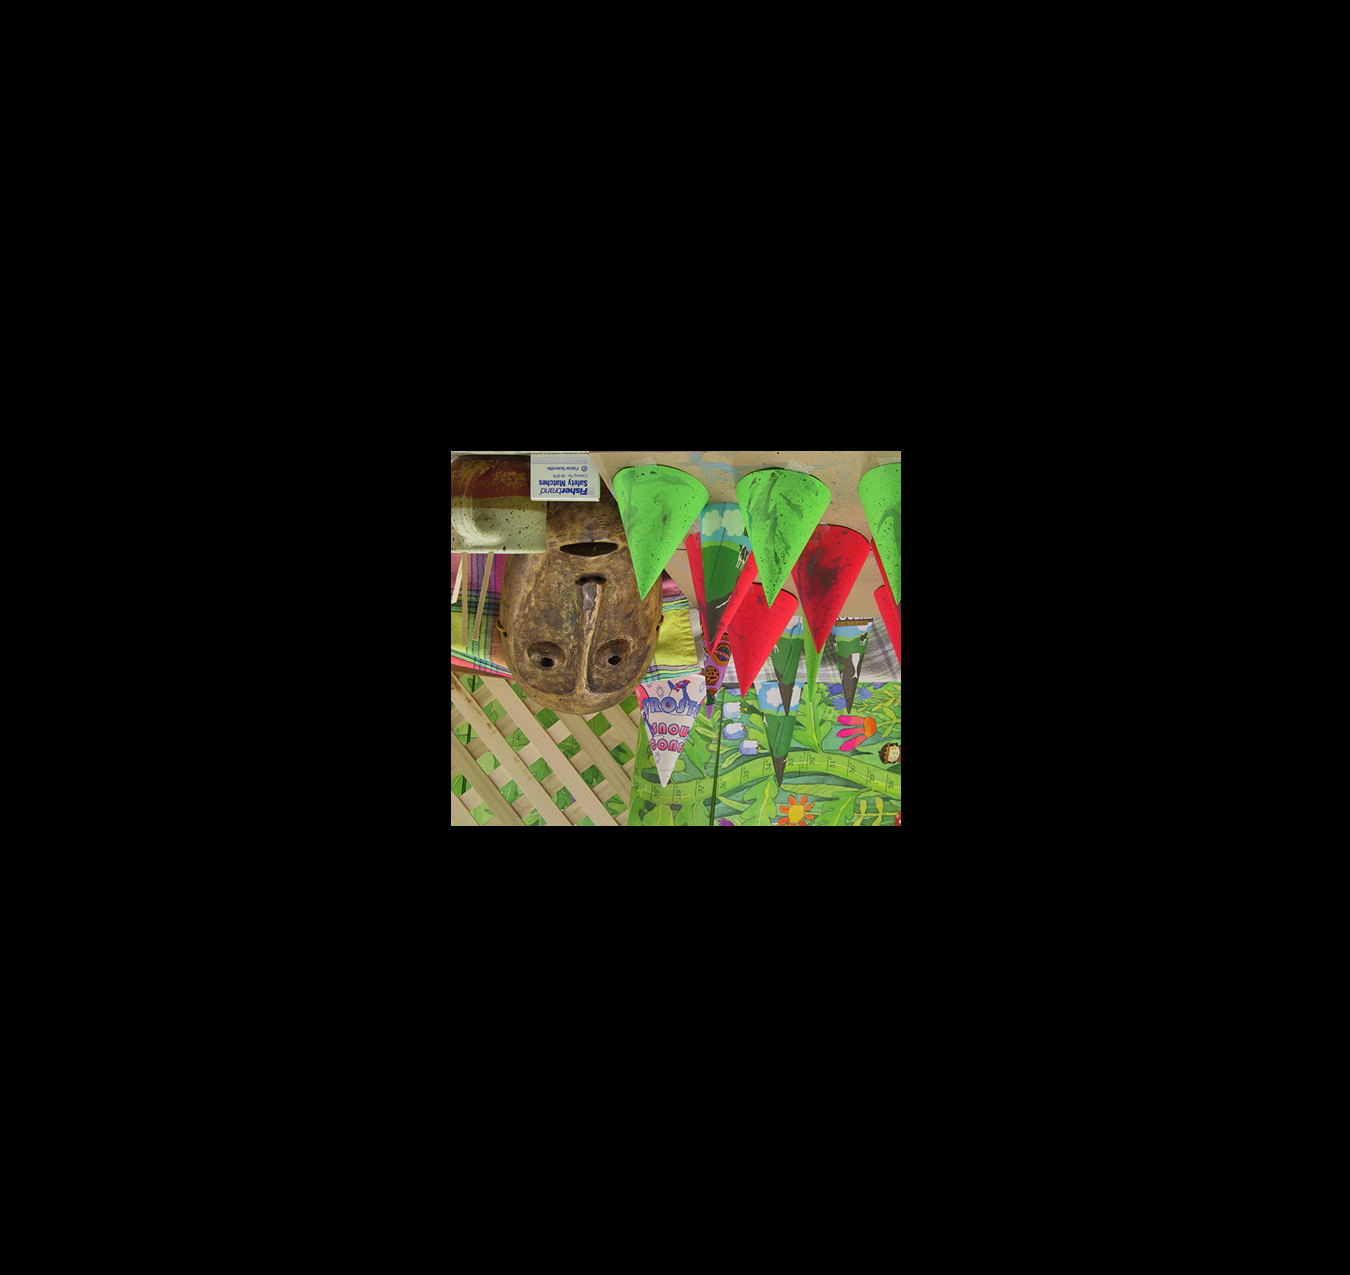
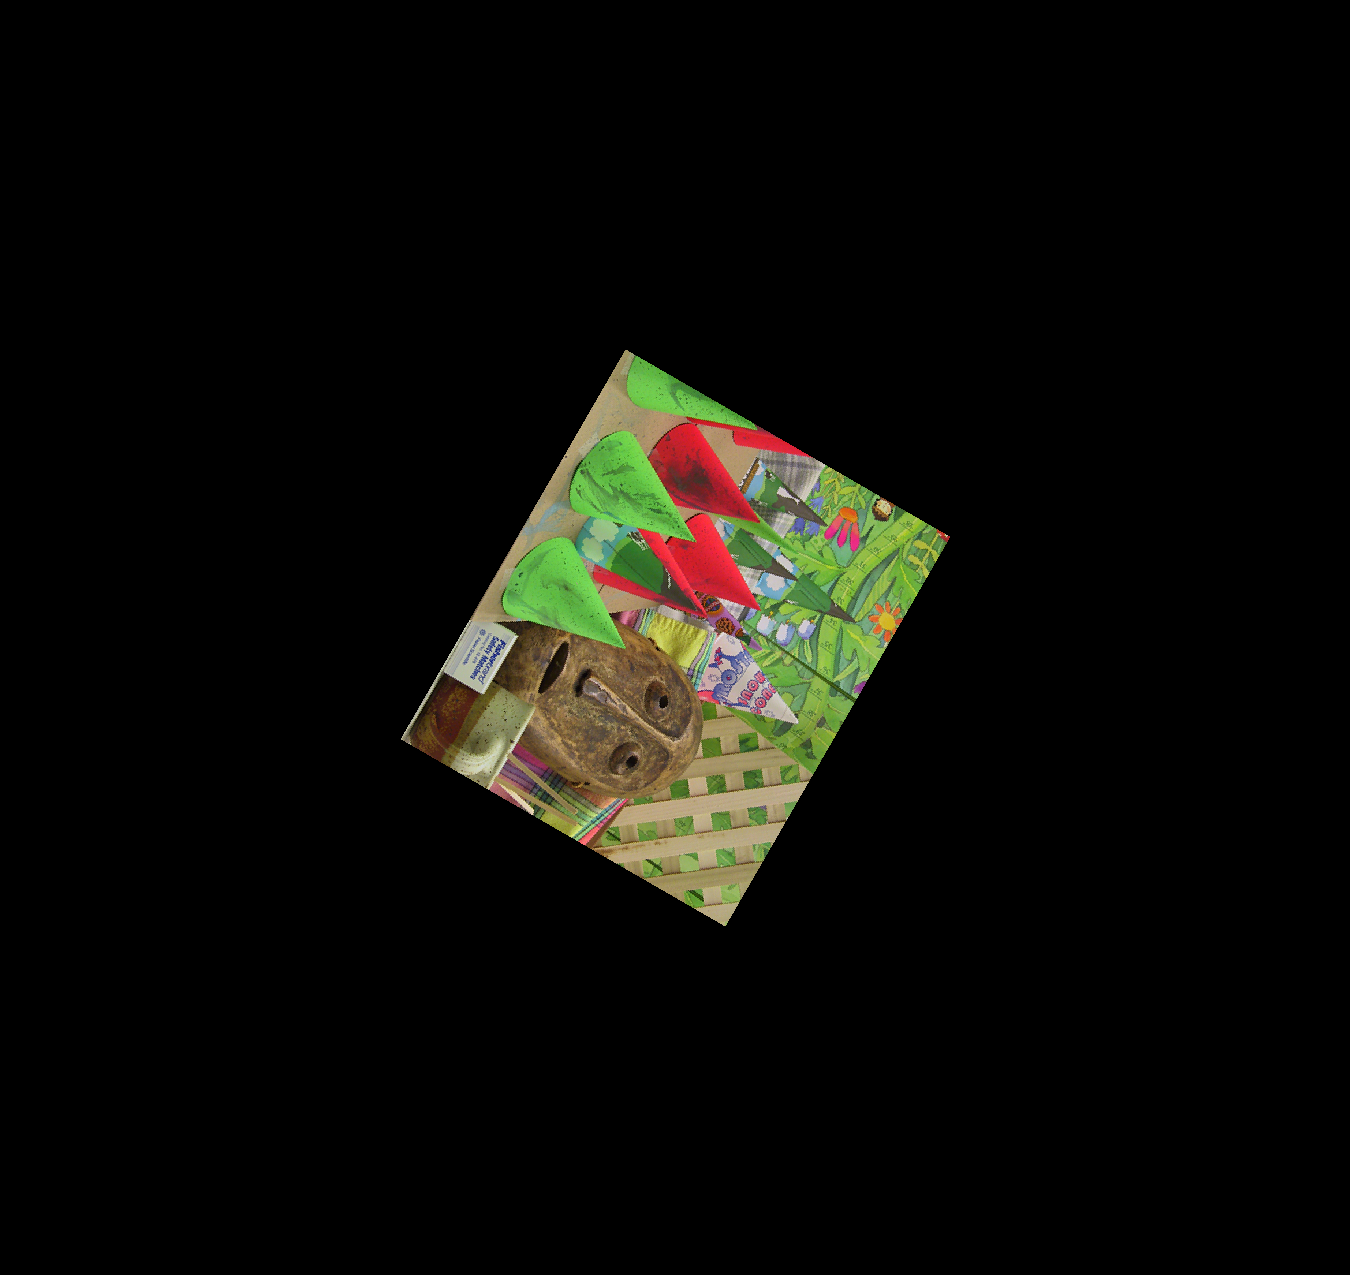
update

Changed region(s): [[0.28, 0.2753, 0.7156, 0.7341]]

diff --git a/ProjectFiles/CSC-340/Assignment1.py b/ProjectFiles/CSC-340/Assignment1.py
@@ -48,14 +48,32 @@ def calculate_absolute_error(original, rotated, border):
     cropped_rotated = rotated[border:border+original.shape[0], border:border+original.shape[1]]
     return np.sum(np.abs(original.astype(int) - cropped_rotated.astype(int))) / (original.shape[0] * original.shape[1] * original.shape[2])
 
-def calculate_rounding_error(original, rotated, num_rotations, num_pixels):
+def calculate_rounding_error(original, rotated, angle_step, num_pixels):
     error = 0
-    for x in range(original.shape[1]):
-        for y in range(original.shape[0]):
-            original_coords = np.array([x, y])
-            rotated_coords = multiply_matrices(get_rotation_matrix(360), original_coords)
-            error += np.linalg.norm(original_coords - rotated_coords)
-    return error / (num_pixels * num_rotations)
+    center_x, center_y = original.shape[1] // 2, original.shape[0] // 2
+    current_rotation_matrix = np.eye(2)  # Start with the identity matrix
+
+    for _ in range(360 // angle_step):
+        rotation_matrix = get_rotation_matrix(angle_step)
+        current_rotation_matrix = multiply_matrices(rotation_matrix, current_rotation_matrix)
+        
+        for x in range(original.shape[1]):
+            for y in range(original.shape[0]):
+                # Center the origin
+                original_coords = np.array([x - center_x, y - center_y])
+                rotated_coords = multiply_matrices(current_rotation_matrix, original_coords)
+                
+                # Translate back to original space
+                rotated_coords[0] += center_x
+                rotated_coords[1] += center_y
+                rounded_coords = np.round(rotated_coords).astype(int)
+                
+                # Calculate rounding error for valid pixel coordinates
+                if 0 <= rounded_coords[0] < original.shape[1] and \
+                   0 <= rounded_coords[1] < original.shape[0]:
+                    error += np.linalg.norm(rotated_coords - rounded_coords)
+
+    return error / num_pixels
 
 def main():
     image = cv2.imread('ProjectFiles/CSC-340/Media/cones1.png')
@@ -64,12 +82,12 @@ def main():
         print("Error: Unable to read the image file. Please check the file path and integrity.")
         return
     
-    angle_step = 180
+    angle_step = 120
     rotated_image = rotate_image(image, angle_step)
     
     border = max(image.shape[:2])
     absolute_error = calculate_absolute_error(image, rotated_image, border)
-    rounding_error = calculate_rounding_error(image, rotated_image, 360 // angle_step, image.shape[0] * image.shape[1])
+    rounding_error = calculate_rounding_error(image, rotated_image, angle_step, image.shape[0] * image.shape[1])
     
     print(f"Angle Step Size: {angle_step} degrees")
     print(f"# Rotations: {360 // angle_step}")
